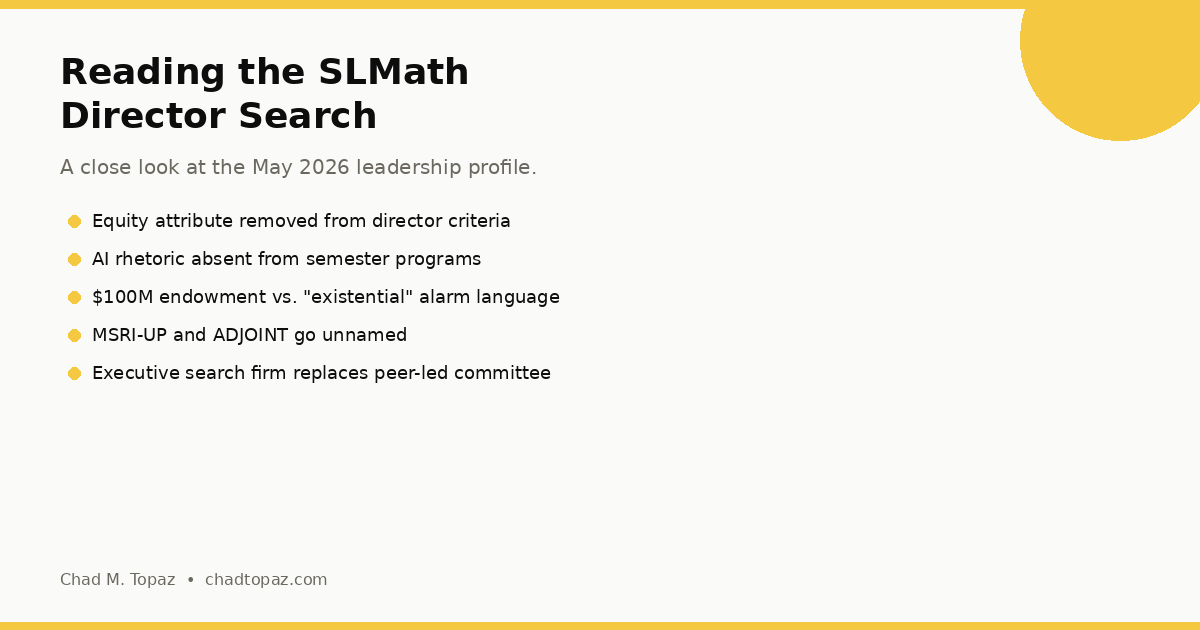
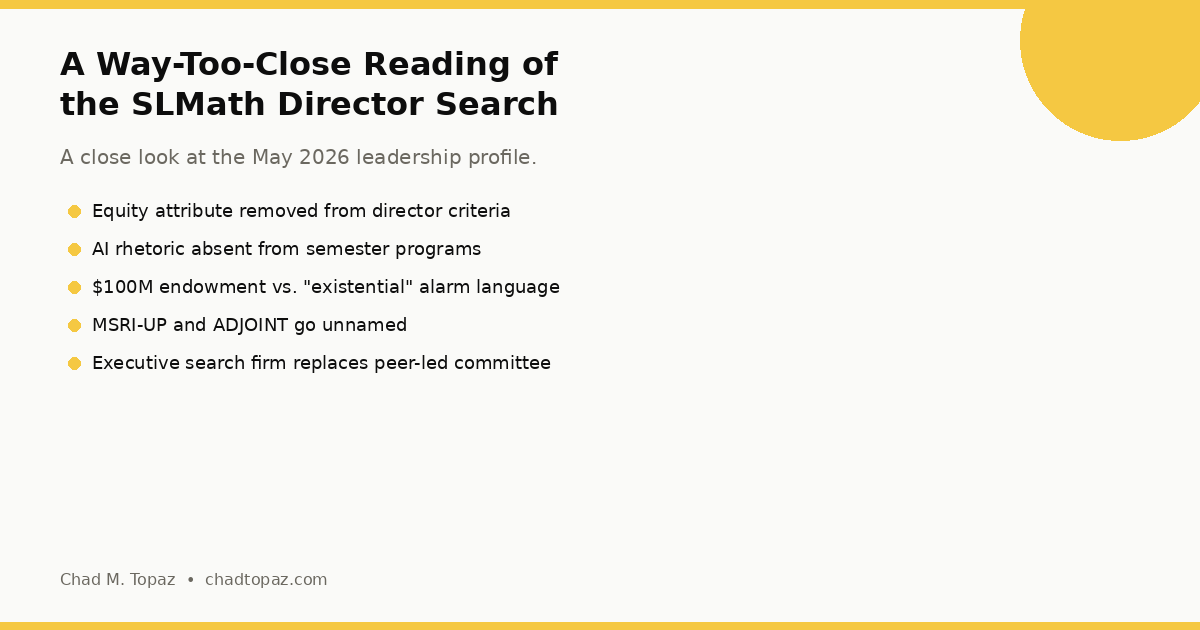
Rename essay, tighten throughout, add RenTech board detail, cut AI/equity/finance sections

Changed region(s): [[0.0308, 0.3016, 0.4625, 0.6032], [0.0308, 0.0603, 0.4625, 0.2111], [0.0308, 0.2413, 0.4625, 0.3016]]

diff --git a/essays/slmath-director-search.html b/essays/slmath-director-search.html
@@ -4,18 +4,18 @@
 <meta charset="UTF-8">
 <meta name="viewport" content="width=device-width, initial-scale=1.0">
 <meta name="description" content="A close reading of SLMath's May 2026 Director Leadership Profile reveals an institute that removed equity from its director's required attributes, added AI to its rhetoric without adding it to its programs, and produced a search document whose anxiety exceeds its actual condition.">
-<meta property="og:title" content="Reading the SLMath Director Search &mdash; Chad M. Topaz">
+<meta property="og:title" content="A Way-Too-Close Reading of the SLMath Director Search &mdash; Chad M. Topaz">
 <meta property="og:description" content="A close look at the May 2026 leadership profile, and at what it asks the mathematical community not to notice.">
 <meta property="og:type" content="article">
 <meta property="og:url" content="https://www.chadtopaz.com/essays/slmath-director-search.html">
 <meta property="og:image" content="https://www.chadtopaz.com/images/slmath-director-search-og.png">
 <meta property="og:site_name" content="Chad M. Topaz">
 <meta name="twitter:card" content="summary_large_image">
-<meta name="twitter:title" content="Reading the SLMath Director Search &mdash; Chad M. Topaz">
+<meta name="twitter:title" content="A Way-Too-Close Reading of the SLMath Director Search &mdash; Chad M. Topaz">
 <meta name="twitter:description" content="A close look at the May 2026 leadership profile, and at what it asks the mathematical community not to notice.">
 <meta name="twitter:image" content="https://www.chadtopaz.com/images/slmath-director-search-og.png">
 <link rel="canonical" href="https://www.chadtopaz.com/essays/slmath-director-search.html">
-<title>Reading the SLMath Director Search &mdash; Chad M. Topaz</title>
+<title>A Way-Too-Close Reading of the SLMath Director Search &mdash; Chad M. Topaz</title>
 <link rel="stylesheet" href="../css/style.css">
 <style>
 .essay-body {
@@ -115,7 +115,7 @@
 </div>
 <div class="page-header">
   <div class="page-label">Essay</div>
-  <h1 class="page-title">Reading the SLMath Director Search</h1>
+  <h1 class="page-title">A Way-Too-Close Reading of the SLMath Director Search</h1>
   <p class="page-subtitle">A close look at the May 2026 leadership profile, and at what it asks the mathematical community not to notice.</p>
   <p class="essay-date">May 2026</p>
 </div>
@@ -126,7 +126,7 @@
 
 <p>There are two <a href="https://www.slmath.org/">Simons Laufer Mathematical Sciences Institutes</a> in the May 2026 <a href="https://api.wittkieffer.com/wp-content/uploads/position/simons-laufer-mathematical-sciences-institute-director-leadership-profile.pdf">Director Leadership Profile</a>, the eleven-page document inviting applications and nominations for the institute&rsquo;s next director.</p>
 
-<p>The first is the SLMath the document describes, and it sounds troubled. It faces &ldquo;existential changes in federal support.&rdquo; Its rhetoric is mid-pivot toward &ldquo;applied mathematics, data science, and AI.&rdquo; It must steward &ldquo;deep community care&rdquo; against unspecified operational shortcomings. The next director must balance excellence with innovation, scientific ambition with financial resilience, fundamental mathematics with emerging tools, and continuity with change. Across the role and profile sections, the <em>balance</em> family appears four times, once as &ldquo;<em>balance</em>&rdquo; and three times as &ldquo;<em>balancing</em>,&rdquo; and &ldquo;<em>preserve while</em>&rdquo; constructions add several more.</p>
+<p>The first is the SLMath the document describes, and it sounds troubled. It faces &ldquo;existential changes in federal support.&rdquo; Its rhetoric is mid-pivot toward &ldquo;applied mathematics, data science, and AI.&rdquo; It must steward &ldquo;deep community care&rdquo; against unspecified operational shortcomings. The next director must balance excellence with innovation, scientific ambition with financial resilience, fundamental mathematics with emerging tools, and continuity with change. Across the role and profile sections, the <em>balance</em> family appears four times, once as &ldquo;<em>balance</em>&rdquo; and three times as &ldquo;<em>balancing</em>,&rdquo; &ldquo;<em>Preserve while</em>&rdquo; constructions add several more.</p>
 
 <p>The second SLMath is the one running the programs. Through Fall 2028, every semester program &mdash; the institute&rsquo;s flagship long-form research residencies &mdash; is recognizable core mathematics. Spring 2024 was commutative algebra and noncommutative algebraic geometry. Fall 2024 was curvature and special geometric structures. Spring 2025 was extremal combinatorics and probability of discrete structures. Fall 2025 was kinetic theory and stochastic PDEs. Spring 2026 was low-dimensional topology and discrete subgroups of higher-rank Lie groups. Fall 2026 will be motivic homotopy theory and representation theory under quantum field theory. Fall 2027 will be algebraic combinatorics, tropical geometry, and Artin groups and arrangements. Fall 2028 will be inverse problems and geometric measure theory. The calendar is overwhelmingly theoretical mathematics, with a handful of applied-facing exceptions. None of it is artificial intelligence. None of it is data science. This is the program calendar of a serious pure-mathematics convening center doing what it has done for forty years.</p>
 
@@ -138,15 +138,15 @@
 
 <p>The 2013 return of <a href="https://en.wikipedia.org/wiki/David_Eisenbud">David Eisenbud</a>, who had directed the institute from 1997 to 2007, appears to have proceeded through institute governance rather than through a public executive-search profile. A separate search announced in 2020, which produced <a href="https://legacy.slmath.org/system/cms/files/1126/files/original/MSRI_Tatiana_Toro_Named_Next_MSRI_Director_2022_Press_Release-15-JUNE-2021.pdf">Tatiana Toro&rsquo;s 2021 appointment</a>, was conducted by a trustee committee chaired by Edward Baker. The 2017 <a href="https://moppenheim.com/mathematical-sciences-research-institute/">m/Oppenheim search at MSRI</a> used an outside firm only for the Director for Advancement and External Relations, a fundraising role where outside firms are conventional. Using WittKieffer for the Director search itself is new.</p>
 
-<p>The form has changed with the firm. The <a href="https://legacy.slmath.org/system/cms/files/1030/files/original/MSRI_Director_Search_Announcement_2020-5-5.pdf">2020 MSRI Director Search Announcement</a> is roughly four pages. It contains no photographs. It is organized as a position description, with sections called General Responsibilities, Specific Responsibilities, Attributes, and Direct Reports. The Specific Responsibilities are concrete: the 2020 director was to lead the Scientific Advisory Committee on programs and the Human Resources Advisory Committee on participation. The 2026 document is eleven pages, contains five photographs, and is organized around themes: Strategic Direction, Financial Sustainability, Modernization, Convener, Staff, Operations. The concrete committee leadership of 2020 has been absorbed into broader strategic and accountability language. The 2020 document told the candidate what the job was. The 2026 document tells the candidate what the institute is going through. Other math institutes post short position descriptions. This is an institutional self-portrait, written for someone who does not already know the institute &mdash; not a mathematician browsing a governance notice, but an executive being recruited. The audience has changed with the format.</p>
+<p>The form has changed with the firm. The <a href="https://legacy.slmath.org/system/cms/files/1030/files/original/MSRI_Director_Search_Announcement_2020-5-5.pdf">2020 MSRI Director Search Announcement</a> is roughly four pages. It contains no photographs. It is organized as a position description, with sections called General Responsibilities, Specific Responsibilities, Attributes, and Direct Reports. The Specific Responsibilities are concrete: the 2020 director was to lead the Scientific Advisory Committee on programs and the Human Resources Advisory Committee on participation. The 2026 document is eleven pages, contains five photographs, and is organized around themes: Strategic Direction, Financial Sustainability, Modernization, Convener, Staff, Operations. The concrete committee leadership of 2020 has been absorbed into broader strategic and accountability language. The 2020 document told the candidate what the job was. The 2026 document tells the candidate what the institute is going through. Other math institutes post short position descriptions. This one reads like it was written for someone who has never heard of SLMath &mdash; an executive being recruited, not a mathematician who already knows the place.</p>
 
 <h2>II. The impossible director</h2>
 
 <p>The document asks for one person who is simultaneously an internationally recognized research mathematician, the institute&rsquo;s principal scientific advocate to NSF and the National Security Agency, a philanthropic fundraiser, a public communicator, and a strategic planner who will modernize operations. The same person must be a culture builder with strong emotional intelligence and an active figure in the global mathematical community. They must also be an AI-aware strategist, a champion of K&ndash;12 outreach, a Board partner on governance and trustee recruitment, and a person of &ldquo;deep community care&rdquo; who will foster trust, collegiality, and shared purpose across the staff. The compensation: $350,000 to $425,000 per year, on a five-year term with possibility of renewal.</p>
 
-<p>The list is overloaded. The intersection of those qualifications in living mathematicians is small. The subset willing to take a five-year administrative term at the offered salary range, away from a tenured research position, is smaller. The document is not really describing a person. It is enumerating a strategic plan and giving the plan a human-shaped header. Every unresolved tension in the institute&rsquo;s recent thinking is loaded onto one job description.</p>
+<p>The list is overloaded. The intersection of those qualifications in living mathematicians is small. The subset willing to take a five-year administrative term at that salary, while presumably maintaining a tenurable appointment at Berkeley, is smaller still. The document is not really describing a person. It is enumerating a strategic plan and giving the plan a human-shaped header. Every unresolved tension in the institute&rsquo;s recent thinking is loaded onto one job description.</p>
 
-<p>The five-year term carries the same strain. David Eisenbud served as MSRI director across roughly two decades in two stints. Brian Conrey has long led AIM. <a href="https://icerm.brown.edu/about/people">Brendan Hassett has run ICERM since 2016</a>, and NSF <a href="https://www.brown.edu/news/2025-08-04/nsf-grant-mathematics-research-icerm">just renewed his institute through 2030 with $16.5 million</a>. <a href="https://www.ipam.ucla.edu/people/directors/">Dimitri Shlyakhtenko has been at IPAM since 2017</a>. <a href="https://www.imsi.institute/directors-and-staff/">Kevin Corlette has led IMSI since its founding in 2020</a>. I found no comparable public Director search currently underway at the other established NSF math institutes. The five-year-with-renewal frame, presented as neutral, accommodates a job description it would be hard to inhabit for much longer than five years.</p>
+<p>The five-year term is also worth noting. David Eisenbud served as MSRI director across roughly two decades in two stints. Brian Conrey has long led AIM. <a href="https://icerm.brown.edu/about/people">Brendan Hassett has run ICERM since 2016</a>, and NSF <a href="https://www.brown.edu/news/2025-08-04/nsf-grant-mathematics-research-icerm">just renewed his institute through 2030 with $16.5 million</a>. <a href="https://www.ipam.ucla.edu/people/directors/">Dimitri Shlyakhtenko has been at IPAM since 2017</a>. <a href="https://www.imsi.institute/directors-and-staff/">Kevin Corlette has led IMSI since its founding in 2020</a>. I found no comparable public Director search currently underway at the other established NSF math institutes. The five-year-with-renewal frame, presented as neutral, accommodates a job description it would be hard to inhabit for much longer than five years.</p>
 
 <h2>III. Artificial intelligence is the bet, packaged as balance</h2>
 
@@ -158,7 +158,7 @@
 
 <p>NSF already has an institute for this. In August 2025, NSF launched <a href="https://www.cmu.edu/news/stories/archives/2025/august/new-nsf-institute-at-cmu-will-help-mathematicians-harness-ai-and-advance-discoveries">ICARM</a> at Carnegie Mellon, the Institute for Computer-Aided Reasoning in Mathematics, whose stated mission is to help mathematicians &ldquo;effectively integrate artificial intelligence, machine learning, formal methods and automated reasoning into their research.&rdquo; SLMath has historically been the fundamental-mathematics institute. If it now positions itself as AI-relevant, it is either competing with ICARM for the same federal mandate or speaking to non-federal funders for whom the NSF institute landscape is less salient. Its one AI-facing event so far is a <a href="https://simons.berkeley.edu/workshops/simons-institute-theory-computing-slmath-joint-workshop-ai-mathematics-theoretical">joint workshop with the Simons Institute for the Theory of Computing</a> &mdash; partnering with external AI capacity rather than building its own.</p>
 
-<p>The most honest version of what the document could have said: <em>SLMath will continue to run its semester programs as a pure-mathematics convening institute. It will host shorter programs in AI and computational mathematics to remain relevant to funders and to the changing field.</em> That sentence is in the document only by negation. The math community should read the AI language for what it is &mdash; institutional positioning &mdash; and ask whether it reflects a genuine intellectual commitment or a funding strategy dressed up as one.</p>
+<p>The most honest version of what the document could have said: <em>SLMath will continue to run its semester programs as a pure-mathematics convening institute. It will host shorter programs in AI and computational mathematics to remain relevant to funders and to the changing field.</em> The document never says it. The math community should read the AI language for what it is &mdash; institutional positioning &mdash; and ask whether it reflects a genuine intellectual commitment or a funding strategy dressed up as one.</p>
 
 <h2>IV. The quiet demotion of equity infrastructure</h2>
 
@@ -182,7 +182,7 @@
 
 <p>The 2026 leadership profile names none of these programs. The phrase <em>MSRI-UP</em> does not appear. The phrase <em>ADJOINT</em> does not appear. The phrase <em>African Diaspora</em> does not appear.</p>
 
-<p>SLMath has not stopped doing equity work. But between 2020 and 2026, explicit equity accountability disappeared from the role criteria for the institute&rsquo;s leader. The timing is hard to separate from the federal climate around DEI language. Adapting to political risk is a choice an institution can defend. Removing the commitment and hoping no one compares the two documents is not adaptation. It is retreat.</p>
+<p>SLMath has not stopped doing equity work. But between 2020 and 2026, explicit equity accountability disappeared from the role criteria for the institute&rsquo;s leader. The timing is hard to separate from the federal climate around DEI language. Adapting to political risk is a choice an institution can defend. Removing the commitment and hoping no one compares the two documents is just retreat.</p>
 
 <p>The <a href="https://legacy.slmath.org/system/cms/files/1126/files/original/MSRI_Tatiana_Toro_Named_Next_MSRI_Director_2022_Press_Release-15-JUNE-2021.pdf">2021 MSRI press release announcing Toro&rsquo;s appointment</a> said that addressing issues of equity and inclusion of underrepresented groups in the mathematical sciences had been &ldquo;a guiding principle&rdquo; in every setting where she had worked. The 2020 search document, written to recruit her, named that principle as a required attribute. The 2026 search document, written to replace her, has removed it from the role.</p>
 
@@ -192,33 +192,33 @@
 
 <p>The actual financial picture does not support that level of alarm. In 2017, MSRI&rsquo;s endowment was approximately $23 million against an operating budget of $9.9 million. The m/Oppenheim search at the time set a goal of $100 million by 2030. In 2022, James and Marilyn Simons and Henry and Marsha Laufer made a <a href="https://www.businesswire.com/news/home/20220519005388/en/Mathematical-Sciences-Research-Institute-Receives-$70M-Gift-Largest-Unrestricted-Endowed-Gift-to-a-U.S.-Based-Mathematics-Institute">$70 million unrestricted gift</a>, described in the announcement as the largest unrestricted endowed gift to a U.S.-based mathematics institute. The gift effectively achieved the 2030 endowment target eight years early. The institute described as facing &ldquo;existential&rdquo; funding risk is among the best-endowed mathematics institutes in the country.</p>
 
-<p>The operating budget tells a different story. The <a href="https://www.slmath.org/ckeditor_assets/attachments/2739/2023-24_Annual_Report_Web_Version_Reduced.pdf">2023&ndash;24 SLMath annual report</a> shows that 52% of program-member funding came from NSF, 3% from NSA, 11% from endowments, and 34% from private sources. For short-term scientific activities, NSF&rsquo;s share rose to 73%. At a standard 4% draw, a $100 million endowment yields roughly $4 million per year &mdash; meaning that endowment income alone cannot replace NSF-supported activity without changing the operating model. Endowment health does not eliminate operating risk; restricted funding and program scale matter. The current NSF cooperative agreement, DMS-2424139, covers 2025 through 2030. The next director will preside over the proposal cycle that determines federal support from 2030 onward.</p>
+<p>The operating budget tells a different story. The <a href="https://www.slmath.org/ckeditor_assets/attachments/2739/2023-24_Annual_Report_Web_Version_Reduced.pdf">2023&ndash;24 SLMath annual report</a> shows that 52% of program-member funding came from NSF, 3% from NSA, 11% from endowments, and 34% from private sources. For short-term scientific activities, NSF&rsquo;s share rose to 73%. At a standard 4% draw, a $100 million endowment yields roughly $4 million per year &mdash; meaning that endowment income alone cannot replace NSF-supported activity without changing the operating model. A healthy endowment does not eliminate operating risk. The current NSF cooperative agreement, DMS-2424139, covers 2025 through 2030. The next director will preside over the proposal cycle that determines federal support from 2030 onward.</p>
 
-<p>The institute is endowment-rich and operating-budget-vulnerable. The vulnerability has a political dimension the document does not name. Saying which kinds of federal change would be existential, and which constituencies in the institute are most exposed to those changes, would require political claims the document does not make. So instead the document produces &ldquo;existential changes&rdquo; and lets the candidate fill in the meaning, leaving the next director to articulate publicly what the search profile leaves implicit.</p>
+<p>The institute is endowment-rich and operating-budget-vulnerable. But the document will not say which federal changes it means, or who in the institute would be most affected. It just says &ldquo;existential changes&rdquo; and leaves the next director to figure out, in public, what the search committee would not put in writing.</p>
 
-<p>The same dynamic produces the document&rsquo;s most quietly coded sentence: &ldquo;remaining attentive to the values and sensitivities of the mathematical community regarding funding sources and institutional independence.&rdquo; The plausible referents are several. The NSA, which funds ADJOINT and appears in several SLMath budget lines, has been a source of intermittent community discomfort for decades. Corporate technology money is increasingly available and increasingly conditioned. Defense-adjacent foundations and family offices may not align with the institute&rsquo;s traditional posture. The leadership profile names none of these. It signals to candidates that internal and external constituencies hold views about which funders the institute may approach. A more specific document would say which. The hedging makes the internal conversation look unresolved.</p>
+<p>The document also asks the director to remain &ldquo;attentive to the values and sensitivities of the mathematical community regarding funding sources and institutional independence.&rdquo; This is a warning without a referent. The NSA, which funds ADJOINT and appears in several SLMath budget lines, has made mathematicians uncomfortable for decades. Corporate tech money comes with strings. Defense-adjacent foundations raise their own questions. The document names none of these. It tells the candidate that people have feelings about funders, without saying which funders or which feelings.</p>
 
-<p>The $70 million Simons-Laufer gift was publicly framed as strengthening long-term independence. The leadership profile reads as if the institute is being asked to drift toward greater donor dependence rather than less, toward expanded philanthropy, new donor communities, and a value proposition for corporate partners. Whatever the right answer is, the document does not allow the institute to defend it in its own words.</p>
+<p>The $70 million Simons-Laufer gift was publicly framed as strengthening long-term independence. The leadership profile reads as if the institute is being pushed toward more donor dependence, not less &mdash; toward new philanthropy, corporate partnerships, and a pitch to funders who are not NSF. The document does not say why.</p>
 
 <h2>VI. What the document does not say</h2>
 
-<p>Some of what the leadership profile reveals is structured by what it does not say. The transitions left unexplained may follow ordinary search-document conventions, but read together they leave a number of substantive questions unanswered.</p>
+<p>The leadership profile also leaves several questions conspicuously unanswered.</p>
 
 <p>The first unanswered question concerns Tatiana Toro. Her five-year appointment runs through summer 2027. She is, by every public measure, completing her tenure in good standing. She received the <a href="https://www.slmath.org/news-and-events/toro-slmath-uw-awarded-2025-solomon-lefschetz-medal">2025 Solomon Lefschetz Medal</a> during her directorship. The institute has functioned without visible governance failure. The current NSF cooperative agreement was awarded on her watch. The leadership profile makes no reference to her. It does not thank her, characterize her tenure, or specify whether the institute is in a phase of continuity or change relative to her vision. Some search documents acknowledge the outgoing leader, in part because doing so locates the new leader in time.</p>
 
 <p>A second unanswered question concerns the simultaneous Deputy Director search. <a href="https://terrytao.wordpress.com/2026/02/27/slmath-deputy-director-search/">That search was launched in February 2026</a> by Terence Tao, in his capacity as Vice-Chair of the SLMath Board of Trustees. Two senior leadership searches running in the same cycle is notable. The current Deputy Director&rsquo;s status and continuity are not addressed in the Director profile, even though the Director profile promises the new Director will work &ldquo;in close partnership with the Deputy Director.&rdquo;</p>
 
-<p>A third unanswered question concerns the &ldquo;modernization&rdquo; language. The profile asks the next director to &ldquo;lead the next phase of organizational maturation by streamlining administrative processes, modernizing systems, and improving data and documentation practices.&rdquo; It also asks for &ldquo;transparency around roles, decision-making, and accountability&rdquo; and for reinforcement of SLMath as &ldquo;a people-centered, values-driven workplace.&rdquo; In leadership-search dialect, these phrases tend to read as remedial rather than aspirational. The underlying cause should not be inferred without further evidence. The document treats these issues as personality requirements; whether they correspond to specific institutional problems with histories is not visible from the text.</p>
+<p>A third unanswered question concerns the &ldquo;modernization&rdquo; language. The profile asks the next director to &ldquo;lead the next phase of organizational maturation by streamlining administrative processes, modernizing systems, and improving data and documentation practices.&rdquo; It also asks for &ldquo;transparency around roles, decision-making, and accountability&rdquo; and for reinforcement of SLMath as &ldquo;a people-centered, values-driven workplace.&rdquo; In a search document, language like this usually means something went wrong, not that the institute is dreaming big. The document does not say what. It frames the issues as personality traits the next director should have, which leaves the reader to guess whether there are specific institutional problems behind the ask.</p>
 
-<p>A fourth unanswered question concerns the Board itself. The trustees appear in the document as a constituency the director must &ldquo;work closely with&rdquo; and &ldquo;engage.&rdquo; No trustee voice articulates what the trustees want the institute to become. The institute&rsquo;s strategic anxieties appear as features of &ldquo;the environment&rdquo; rather than as positions any specific board member has taken in public.</p>
+<p>A fourth unanswered question concerns the <a href="https://www.slmath.org/board-of-trustees">Board itself</a>. The trustees appear in the document as a constituency the director must &ldquo;work closely with&rdquo; and &ldquo;engage,&rdquo; but no trustee voice says what the trustees actually want the institute to become. The board&rsquo;s composition is worth noting. Three current trustees &mdash; Vincent Della Pietra, Stephen Della Pietra, and Henry Laufer &mdash; are listed under <a href="https://en.wikipedia.org/wiki/Renaissance_Technologies">Renaissance Technologies</a>, the quantitative hedge fund founded by Jim Simons. Marilyn Simons, also on the board, represents the Simons Foundation. The institute is named after two Renaissance Technologies families. A document that asks its next director to remain &ldquo;attentive to the values and sensitivities of the mathematical community regarding funding sources&rdquo; might start by acknowledging the concentration of a single hedge fund&rsquo;s alumni and donors on its own governing board.</p>
 
-<p>These omissions may be ordinary conventions of executive search documents, which tend to elide internal political content and to address candidates through institutional voice rather than first-person trustee voice. Conventions or not, the result is a search document that asks the mathematical community to evaluate a transition without giving the community the information needed to do so.</p>
+<p>Maybe these are just conventions of executive search documents. But the result is a document that asks the math community to evaluate a leadership transition without giving the community the information needed to do so.</p>
 
 <h2>VII. The community&rsquo;s responsibility</h2>
 
-<p>The charitable reading is worth pausing on before the criticism lands. The drafters of the 2026 profile faced real constraints. The federal environment around explicit DEI language has become legally and politically hazardous in ways that did not apply in 2020. A broader search firm can extend the candidate pool, professionalize the process, benchmark compensation, and support candidate confidentiality. A longer document allows fuller description of the institute&rsquo;s current strategic situation. The AxIOM format may be experimental rather than evasive &mdash; a way to host AI work without permanently committing the semester calendar. The financial-sustainability language reflects a real concern that NSF-dependent institutes face uncertain futures regardless of their endowment health. The &ldquo;modernization&rdquo; language may name the kind of institutional improvements any organization undertakes after a leadership transition. Read this way, the 2026 profile is a prudent adaptation to changed circumstances, and the document&rsquo;s silences are professionalism rather than evasion.</p>
+<p>To be fair, the drafters of the 2026 profile faced real constraints. The federal environment around explicit DEI language has become legally and politically hazardous in ways that did not apply in 2020. A broader search firm can extend the candidate pool, professionalize the process, benchmark compensation, and support candidate confidentiality. A longer document allows fuller description of the institute&rsquo;s current strategic situation. The AxIOM format may be experimental rather than evasive &mdash; a way to host AI work without permanently committing the semester calendar. The financial-sustainability language reflects a real concern that NSF-dependent institutes face uncertain futures regardless of their endowment health. The &ldquo;modernization&rdquo; language may name the kind of institutional improvements any organization undertakes after a leadership transition. Read this way, the 2026 profile is a prudent adaptation to changed circumstances, and the document&rsquo;s silences are professionalism rather than evasion.</p>
 
-<p>Two things keep that reading from settling the matter. The first is the equity-attribute removal, which is documentary rather than interpretive: the 2020 document said the director must show &ldquo;persistent and deliberate commitment to action with respect to inclusivity, equity, inclusion, and justice,&rdquo; and the 2026 document does not. Adapting to political risk is a defensible choice. Making that choice without naming it is a separate choice. The second is the asymmetry between the institute&rsquo;s anxious tone and its actual condition. An institute with a $100 million endowment, the current NSF renewal in hand, a celebrated outgoing director, and a four-decade convening record is not in obvious crisis. The document&rsquo;s anxiety is doing work the institute&rsquo;s situation does not require.</p>
+<p>Two things complicate that reading. First, the equity-attribute removal is not a matter of interpretation: the 2020 document said the director must show &ldquo;persistent and deliberate commitment to action with respect to inclusivity, equity, inclusion, and justice,&rdquo; and the 2026 document does not. Adapting to political risk is defensible. Doing it silently is a different kind of choice. Second, there is a gap between the institute&rsquo;s anxious tone and its actual condition. An institute with a $100 million endowment, the current NSF renewal in hand, a celebrated outgoing director, and a four-decade convening record is not in obvious crisis. The document is more anxious than the institute&rsquo;s actual situation warrants.</p>
 
 <p>The math community tends to treat leadership decisions like these as inside baseball. Boards of trustees handle these matters. Search committees take soundings. Press releases announce outcomes. The community responds with congratulations or, occasionally, with private grumbling. Public criticism is rare.</p>
 

diff --git a/essays/index.html b/essays/index.html
@@ -78,7 +78,7 @@
 </div>
 <div class="page-content">
   <div class="press-group">
-    <div class="press-item"><a href="slmath-director-search.html"><div class="press-outlet">May 2026</div><div class="press-title">Reading the SLMath Director Search</div></a></div>
+    <div class="press-item"><a href="slmath-director-search.html"><div class="press-outlet">May 2026</div><div class="press-title">A Way-Too-Close Reading of the SLMath Director Search</div></a></div>
     <div class="press-item"><a href="receipts-are-receipts.html"><div class="press-outlet">May 2026</div><div class="press-title">Receipts are receipts: A response to Pirate Wires on Tressie McMillan Cottom</div></a></div>
     <div class="press-item"><a href="kickstarter-mature-content.html"><div class="press-outlet">May 2026</div><div class="press-title">Valued, then erased: Who Kickstarter's new mature-content rules shut out</div></a></div>
     <div class="press-item"><a href="gowers-response.html"><div class="press-outlet">May 2026</div><div class="press-title">Cheap production, scarce judgment: A response to Gowers on ChatGPT 5.5 Pro</div></a></div>
